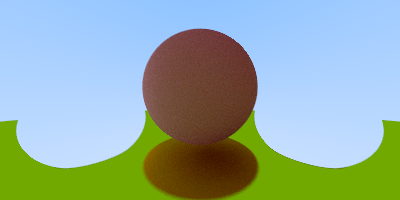
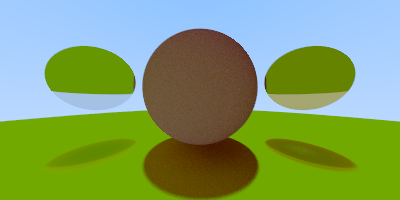
figure out bug with metals (sort of)

diff --git a/src/scene.rs b/src/scene.rs
@@ -32,11 +32,25 @@ impl Surface for Sphere {
         if discriminant > 0.0 {
             let root = (-b - d_root) / a;
             if root < t_max && root > t_min {
-                return Some(Hit::new(root, ray, self.center, &*self.material));
+                let face_normal = ray.direction().dot(self.center) < 0.0;
+                return Some(Hit::new(
+                    root,
+                    ray,
+                    self.center,
+                    &*self.material,
+                    face_normal,
+                ));
             }
             let root = (-b + d_root) / a;
             if root < t_max && root > t_min {
-                return Some(Hit::new(root, ray, self.center, &*self.material));
+                let face_normal = ray.direction().dot(self.center) < 0.0;
+                return Some(Hit::new(
+                    root,
+                    ray,
+                    self.center,
+                    &*self.material,
+                    face_normal,
+                ));
             }
         }
         None

diff --git a/src/lib.rs b/src/lib.rs
@@ -68,12 +68,20 @@ pub struct Hit<'a> {
 }
 
 impl<'a> Hit<'a> {
-    pub fn new(t: f32, ray: &Ray, origin: Vec3, material: &'a dyn Material) -> Self {
+    pub fn new(
+        t: f32,
+        ray: &Ray,
+        origin: Vec3,
+        material: &'a dyn Material,
+        face_normal: bool,
+    ) -> Self {
         let p = ray.point_at(t);
+        let normal = if face_normal { -p - origin } else { p - origin };
+
         Self {
             t,
             p,
-            normal: p - origin,
+            normal,
             material,
         }
     }

diff --git a/src/main.rs b/src/main.rs
@@ -36,13 +36,13 @@ fn world<'a>() -> Vec<Box<dyn Surface>> {
     )));
 
     world.push(Box::new(Sphere::new(
-        Vec3::new(1.0, -0.2, -1.0),
-        0.4,
+        Vec3::new(1.0, 0.2, -1.0),
+        0.3,
         reflective1,
     )));
     world.push(Box::new(Sphere::new(
-        Vec3::new(-1.0, -0.2, -1.0),
-        0.4,
+        Vec3::new(-1.0, 0.2, -1.0),
+        0.3,
         reflective2,
     )));
 
